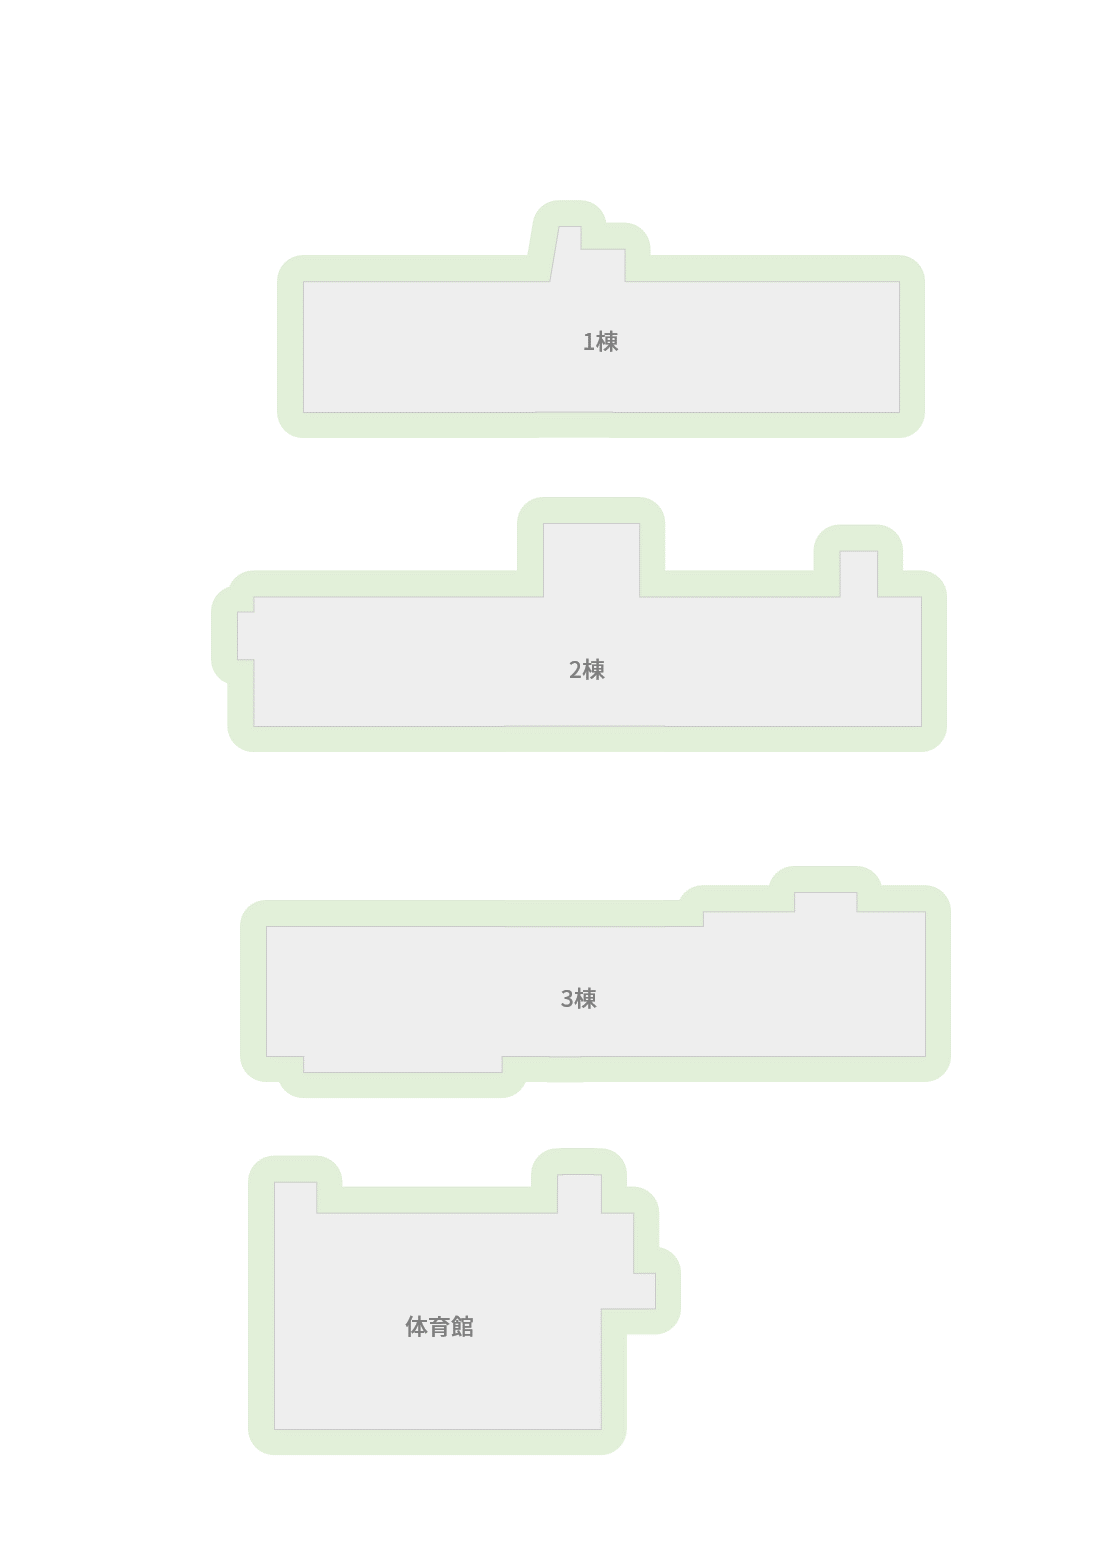
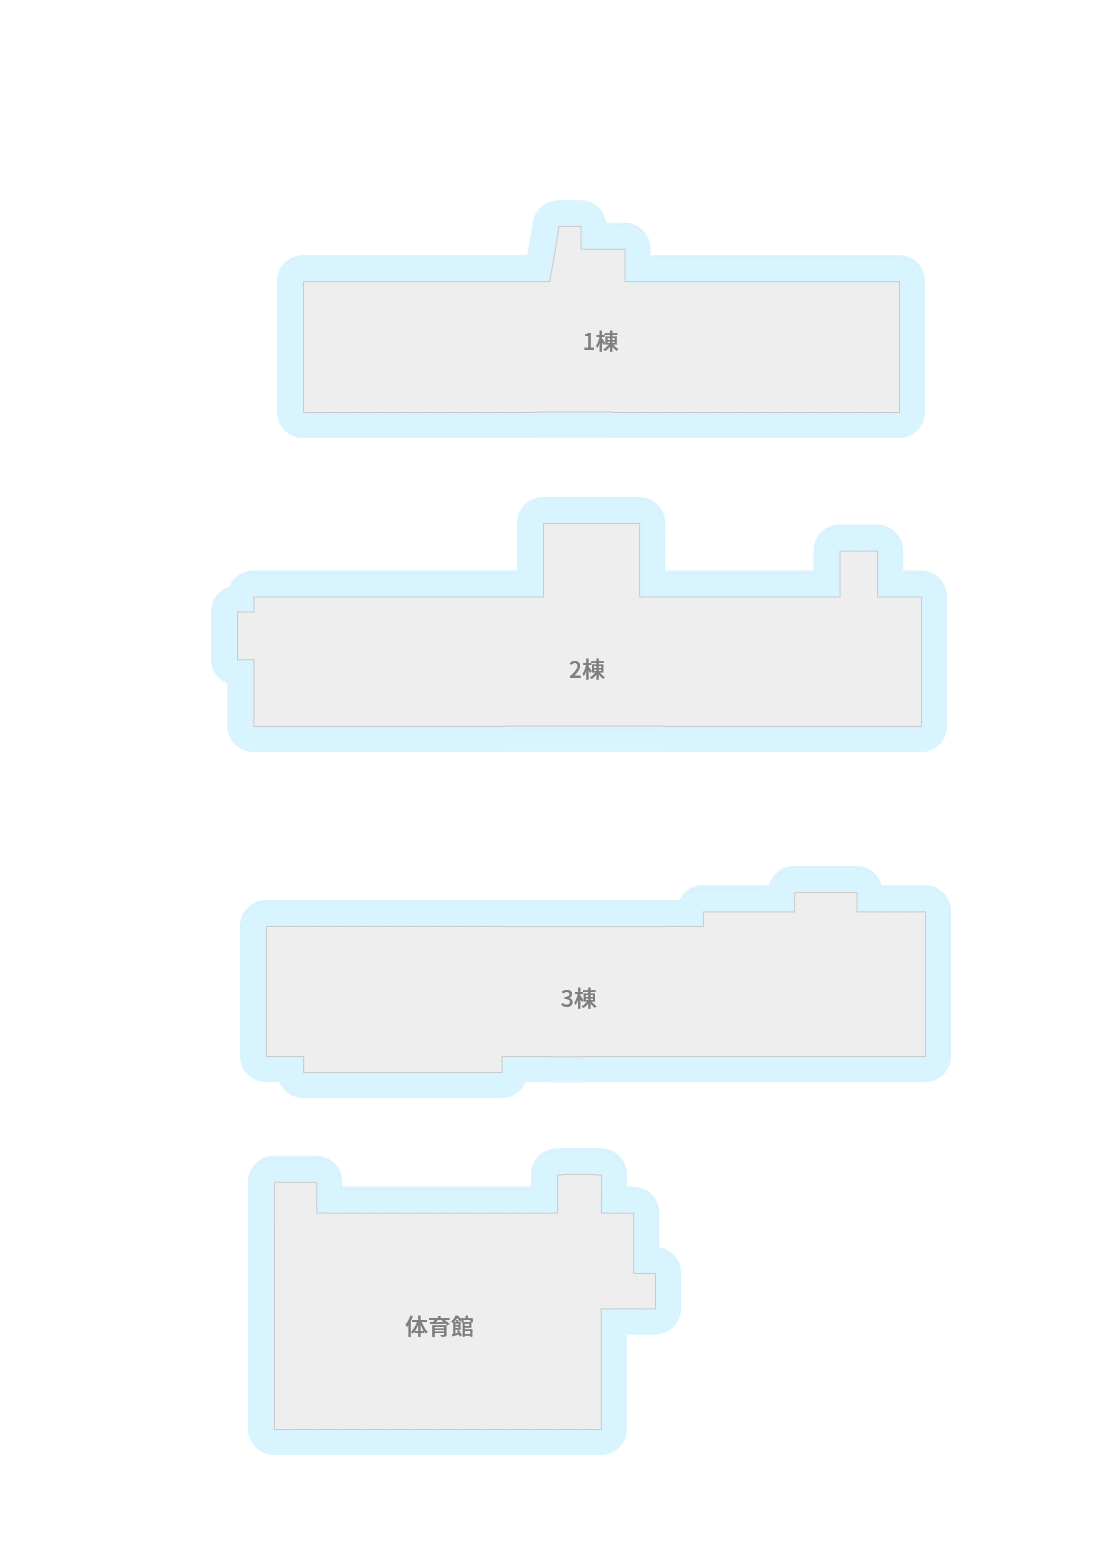
一旦色変えてみた

Changed region(s): [[0.1841, 0.1239, 0.8592, 0.4955], [0.2148, 0.5574, 0.8592, 0.7123], [0.2148, 0.7432, 0.6137, 0.96]]

diff --git a/index.html b/index.html
@@ -36,7 +36,7 @@
 
   <body>
     <header>
-      <a href="./index.html">
+      <a href="./">
         TOIN-FESTIVAL&nbsp;2024
       </a>
 
@@ -63,6 +63,7 @@
       
     <span id="topSpan"></span>
     
+    <!-- 混雑状況 -->
     <div class="section" id="sectionWaitTime">
       <h1>教室展示の混雑状況</h1><br>
 
@@ -316,8 +317,9 @@
       </div>
     </div>
 
+    <!-- 体育館スケジュール -->
     <div class="section" id="sectionGym">
-      <h1>出し物のスケジュール</h1>
+      <h1>イベントスケジュール ＠体育館</h1>
       <a id="map-gym"><i class="fa-solid fa-location-dot"></i>体育館</a>
 
       <div class="gymDateContainer">
@@ -373,9 +375,9 @@
     <!-- 2Dマップ -->
     <div class="section" id="sectionMap">
       <div id="content">
-        <img class="imgFloor active" id="imgFloor1" src="./2d/001.webp" alt="1F" loading="eager">
-        <img class="imgFloor" id="imgFloor2" src="./2d/002.webp" alt="2F" loading="eager">
-        <img class="imgFloor" id="imgFloor3" src="./2d/003.webp" alt="3F" loading="eager">
+        <img class="imgFloor active" id="imgFloor1" src="./2d/001.png" alt="1F" loading="eager">
+        <img class="imgFloor" id="imgFloor2" src="./2d/002.png" alt="2F" loading="eager">
+        <img class="imgFloor" id="imgFloor3" src="./2d/003.png" alt="3F" loading="eager">
   
         <!-- <div id="grids">
           <span class="grid-tate" id="grid-tate1"></span><span class="grid-tate" id="grid-tate2"></span><span class="grid-tate" id="grid-tate3"></span><span class="grid-tate" id="grid-tate4"></span><span class="grid-tate" id="grid-tate5"></span><span class="grid-tate" id="grid-tate6"></span><span class="grid-tate" id="grid-tate7"></span><span class="grid-tate" id="grid-tate8"></span><span class="grid-tate" id="grid-tate9"></span><span class="grid-tate" id="grid-tate10"></span><span class="grid-tate" id="grid-tate11"></span><span class="grid-tate" id="grid-tate12"></span><span class="grid-tate" id="grid-tate13"></span><span class="grid-tate" id="grid-tate14"></span><span class="grid-tate" id="grid-tate15"></span><span class="grid-tate" id="grid-tate16"></span><span class="grid-tate" id="grid-tate17"></span><span class="grid-tate" id="grid-tate18"></span><span class="grid-tate" id="grid-tate19"></span><span class="grid-tate" id="grid-tate20"></span><span class="grid-tate" id="grid-tate21"></span><span class="grid-tate" id="grid-tate22"></span><span class="grid-tate" id="grid-tate23"></span><span class="grid-tate" id="grid-tate24"></span><span class="grid-tate" id="grid-tate25"></span><span class="grid-tate" id="grid-tate26"></span><span class="grid-tate" id="grid-tate27"></span><span class="grid-tate" id="grid-tate28"></span><span class="grid-tate" id="grid-tate29"></span><span class="grid-tate" id="grid-tate30"></span><span class="grid-tate" id="grid-tate31"></span><span class="grid-tate" id="grid-tate32"></span><span class="grid-tate" id="grid-tate33"></span><span class="grid-tate" id="grid-tate34"></span><span class="grid-tate" id="grid-tate35"></span><span class="grid-tate" id="grid-tate36"></span><span class="grid-tate" id="grid-tate37"></span><span class="grid-tate" id="grid-tate38"></span><span class="grid-tate" id="grid-tate39"></span><span class="grid-tate" id="grid-tate40"></span><span class="grid-tate" id="grid-tate41"></span><span class="grid-tate" id="grid-tate42"></span><span class="grid-tate" id="grid-tate43"></span><span class="grid-tate" id="grid-tate44"></span><span class="grid-tate" id="grid-tate45"></span><span class="grid-tate" id="grid-tate46"></span><span class="grid-tate" id="grid-tate47"></span><span class="grid-tate" id="grid-tate48"></span><span class="grid-tate" id="grid-tate49"></span><span class="grid-tate" id="grid-tate50"></span><span class="grid-tate" id="grid-tate51"></span><span class="grid-tate" id="grid-tate52"></span><span class="grid-tate" id="grid-tate53"></span><span class="grid-tate" id="grid-tate54"></span><span class="grid-tate" id="grid-tate55"></span><span class="grid-tate" id="grid-tate56"></span><span class="grid-tate" id="grid-tate57"></span><span class="grid-tate" id="grid-tate58"></span><span class="grid-tate" id="grid-tate59"></span><span class="grid-tate" id="grid-tate60"></span><span class="grid-tate" id="grid-tate61"></span><span class="grid-tate" id="grid-tate62"></span><span class="grid-tate" id="grid-tate63"></span><span class="grid-tate" id="grid-tate64"></span><span class="grid-tate" id="grid-tate65"></span><span class="grid-tate" id="grid-tate66"></span><span class="grid-tate" id="grid-tate67"></span><span class="grid-tate" id="grid-tate68"></span><span class="grid-tate" id="grid-tate69"></span><span class="grid-tate" id="grid-tate70"></span><span class="grid-tate" id="grid-tate71"></span><span class="grid-tate" id="grid-tate72"></span><span class="grid-tate" id="grid-tate73"></span><span class="grid-tate" id="grid-tate74"></span>
@@ -403,11 +405,12 @@
       </div>
     </div>
 
+    <!-- ニュース -->
     <div class="section current" id="sectionNews">
       <h1>ニュース</h1>
       <h2>タップして詳細をチェック</h2>
 
-      <a href="./forParents/index.html" id="newsForParents">来校者の方は必ずコチラをご確認ください<i class="fa-solid fa-up-right-from-square"></i></a>
+      <a href="./forParents/" id="newsForParents">来校者の方は必ずコチラをご確認ください<i class="fa-solid fa-up-right-from-square"></i></a>
 
       <div id="newsContainer">
         <!-- <div class="newsContent">
@@ -430,6 +433,7 @@
       </dialog>
     </div>
 
+    <!-- 制作者について -->
     <div class="section" id="sectionAboutUs">
       <h1>制作者について</h1>
       <p id="aboutUsThank">

diff --git a/asset/css/style_gym.css b/asset/css/style_gym.css
@@ -131,7 +131,7 @@
 
 .gymMainContainer{
   display: none;
-  grid-template-columns: 5rem 1fr;
+  grid-template-columns: 3rem 1fr;
 
   width: 90%;
   height: auto;
@@ -236,7 +236,7 @@
 
   position: absolute;
   top: calc(1.5rem - 0.5rem);
-  left: calc(-1rem - 2.5rem + 0.5rem);
+  left: calc(-1rem - 1.5rem + 0.5rem);
   z-index: 1;
 
   display: block;
@@ -270,7 +270,7 @@
   background-color: var(--accent);
   border: var(--accent) 2px solid;
   top: calc(1.5rem - 0.5rem - 2px);
-  left: calc(-1rem - 2.5rem + 0.5rem - 2px);
+  left: calc(-1rem - 1.5rem + 0.5rem - 2px);
   opacity: 1;
 }
 

diff --git a/asset/js/script_gym.js b/asset/js/script_gym.js
@@ -5,8 +5,8 @@ const day1CSV = './asset/csv/day1.csv';
 const day2CSV = './asset/csv/day2.csv';
 
 // 各日の日付を入力
-const day0date = "2024-08-20T";
-const day1date = "2024-08-21T";
+const day0date = "2024-09-10T";
+const day1date = "2024-09-11T";
 const day2date = "2024-09-12T";
 
 // 各ストレッチ有要素の高さ

diff --git a/asset/js/script_2dmap_zoom.js b/asset/js/script_2dmap_zoom.js
@@ -127,8 +127,17 @@ $("#navMap").click(function(){
   zoomContainer.scrollTop = zoomContainer.scrollTop / 2;
 })
 
-$("#mapLink1").click(function(){ 
-  scale = scale;
+
+
+
+
+
+
+
+
+
+
+$("#map-gym").click(function(){ 
   newScale = 5;
 
   // const zoomCenterX = (zoomContainer.scrollLeft + containerWidth / 2) / scale;

diff --git a/forParents/index.html b/forParents/index.html
@@ -35,7 +35,7 @@
 
   <body>
     <header>
-      <a href="./index.html">
+      <a href="../">
         TOIN-FESTIVAL&nbsp;2024
       </a>
     </header>

diff --git a/asset/css/style_waitTime.css b/asset/css/style_waitTime.css
@@ -181,7 +181,7 @@
 }
 
 .waitContainer>div>span.low{
-  background-color: #7FD9FA;
+  background-color: #7FD9FB;
 }
 
 .waitContainer>p::after{
